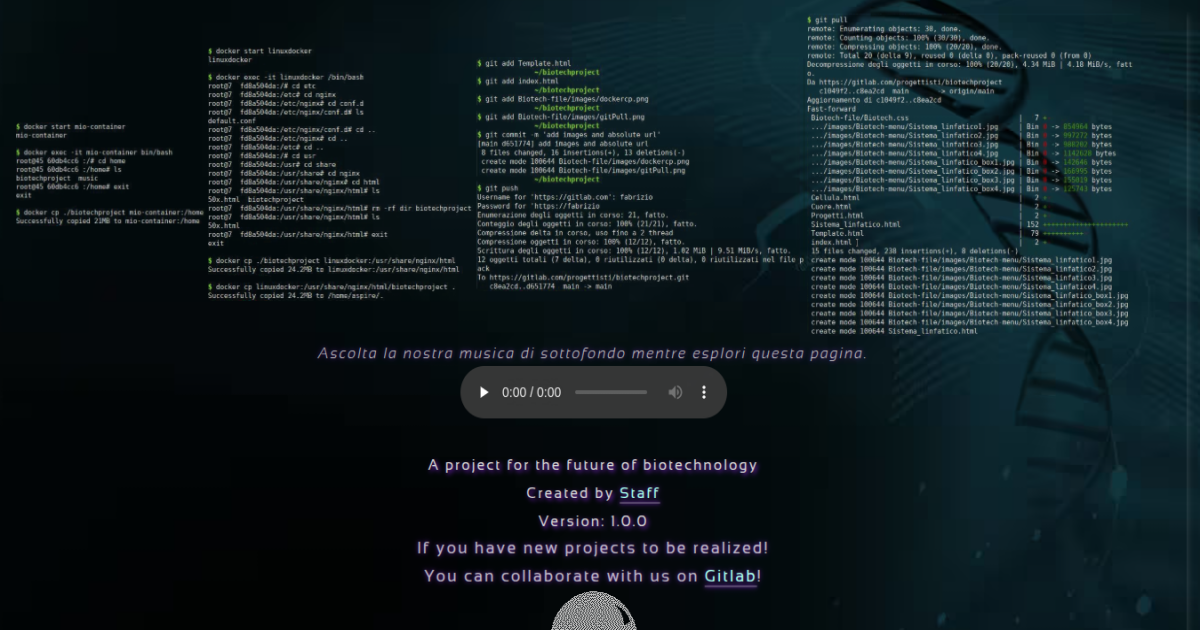
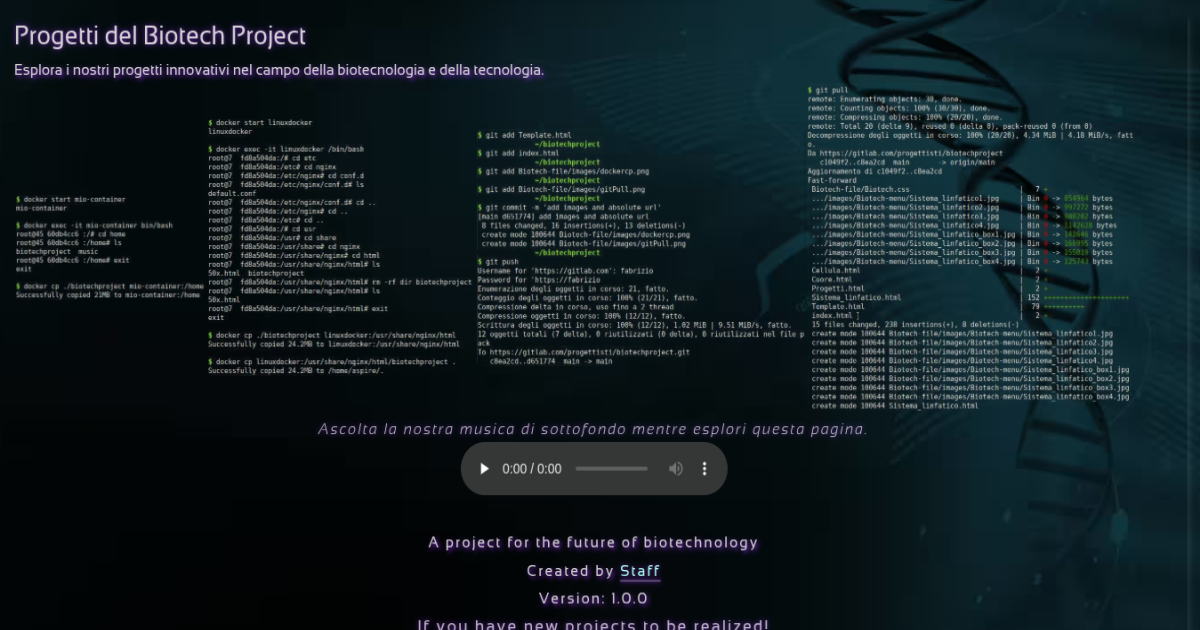
🌐 Structured data (JSON-LD)

Changed region(s): [[0.0, 0.0, 0.9558, 1.0], [0.9867, 0.2111, 1.0, 0.2413], [0.925, 0.8143, 0.9558, 0.8444]]

diff --git a/Progetti.html b/Progetti.html
@@ -174,6 +174,8 @@ html, body {margin: 0; padding: 0; background-color: #000f16; color: #d4d3d3; fo
   <div class="staff-col">
     <div class="staff-card">
       <div class="staff-container">
+        <h2>Progetti del Biotech Project</h2>
+  <p class="text">Esplora i nostri progetti innovativi nel campo della biotecnologia e della tecnologia.</p>
 <table>
 <tr>
 <td><img id="myImg" src="https://gitechnolo.github.io/biotechproject/Biotech-file/images/dockercp.avif" alt="Docker cp" style="width:100%;max-width:214px"></td>
